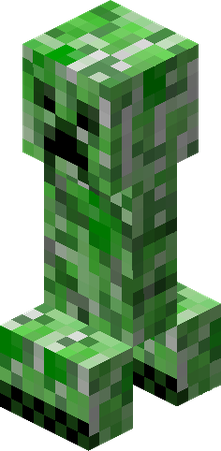
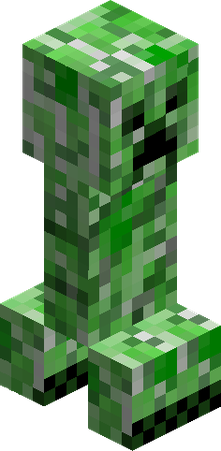
flip enemy in direction of movement

diff --git a/src/Enemy.js b/src/Enemy.js
@@ -100,6 +100,8 @@ class Enemy {
     }
     translate(this.pos.x, this.pos.y);
     imageMode(CENTER);
+    if (this.vel.x < 0) scale(-1, 1);
+
     image(this.image, 0, 0, this.size[0], this.size[1]);
     pop();
 
